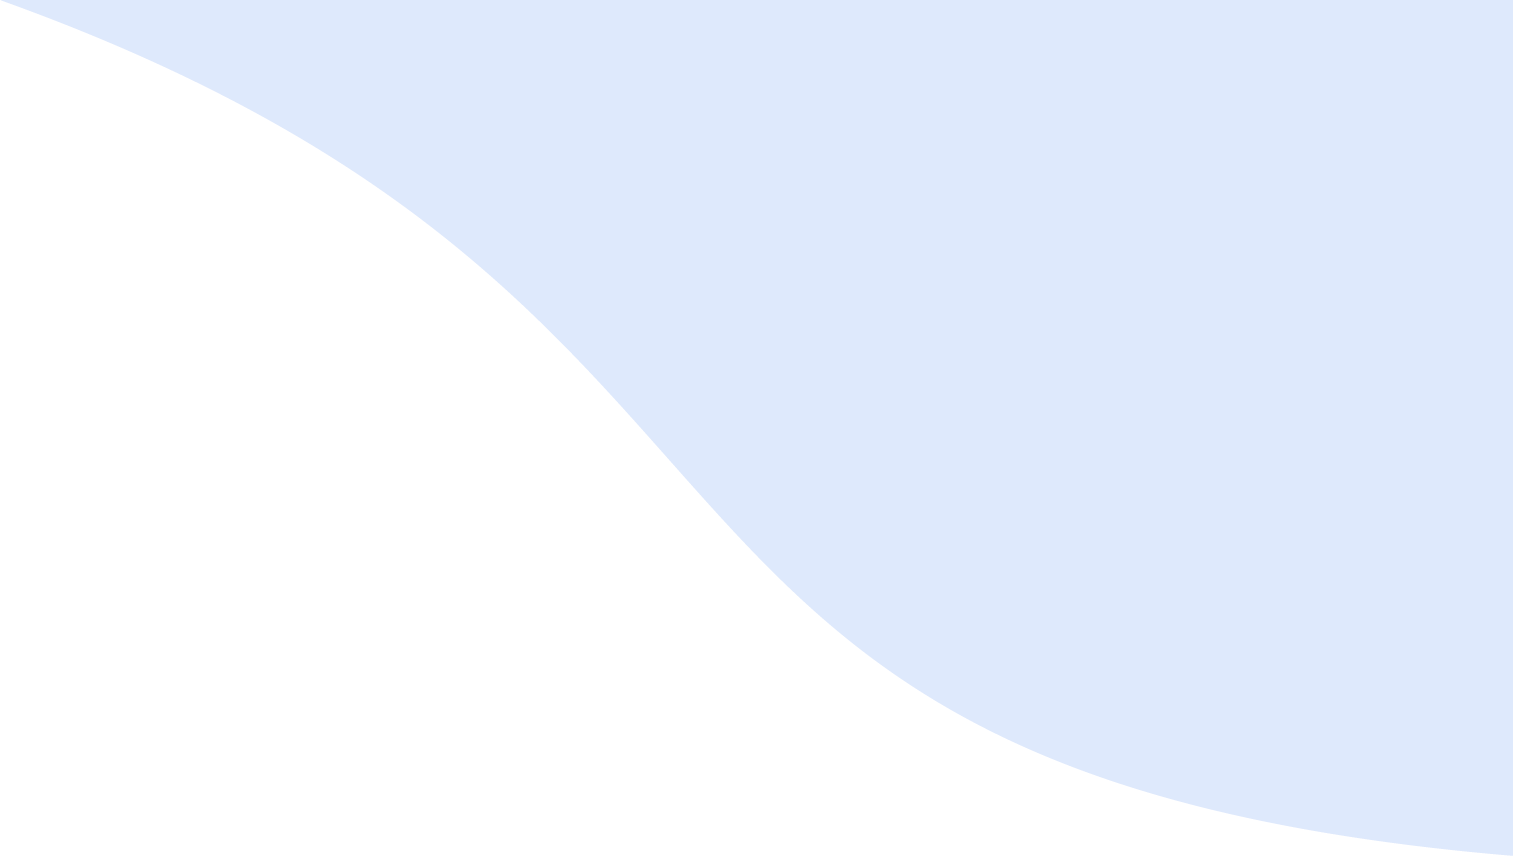
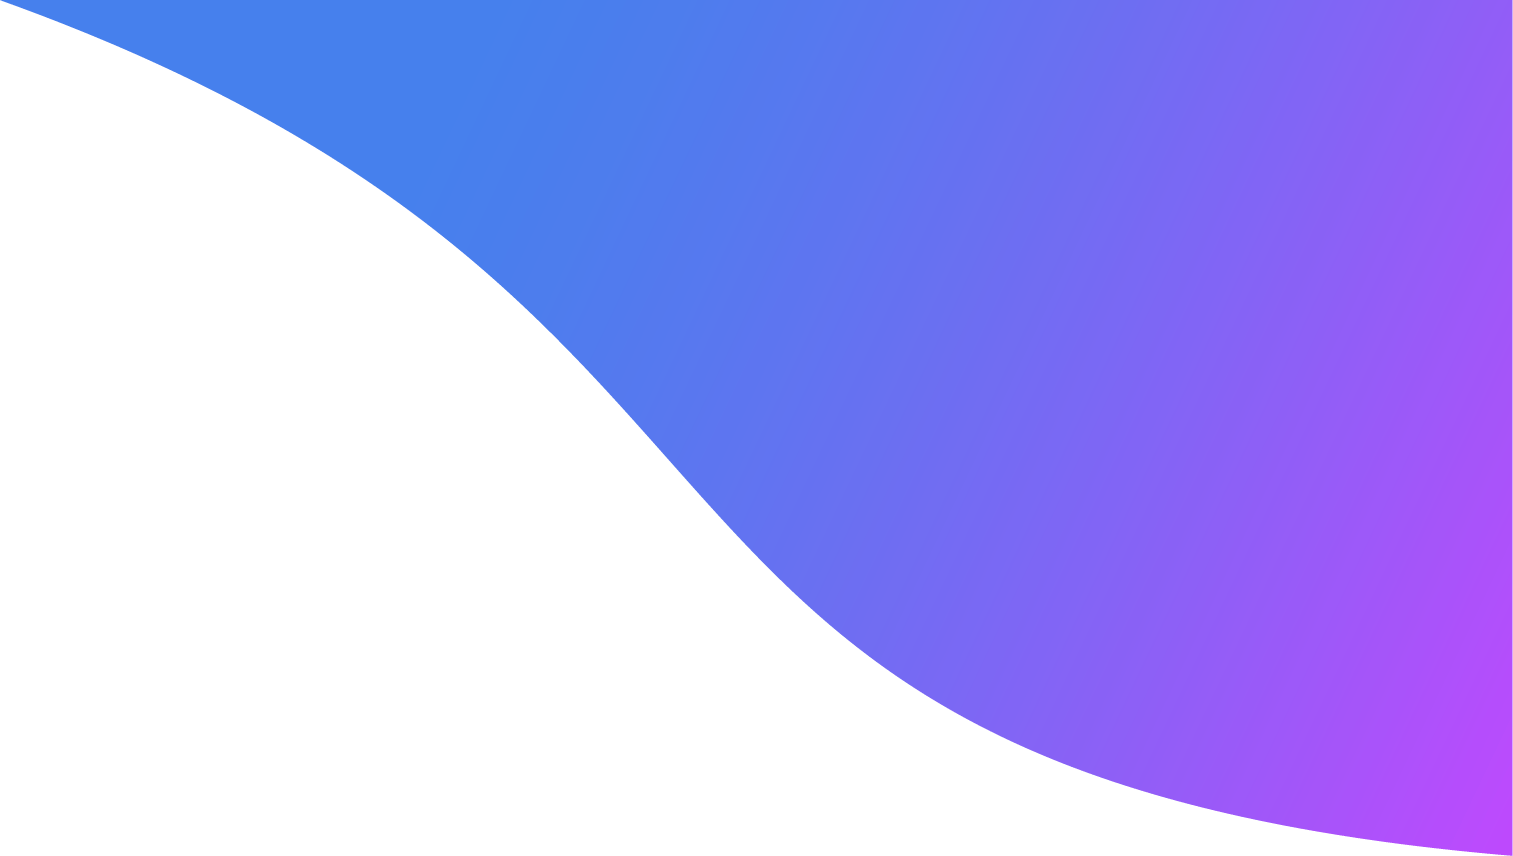
2rd commit

diff --git a/css/mobile.css b/css/mobile.css
@@ -1,6 +1,6 @@
 .back {
   width: 100%;
-  opacity: 0.5;
+  opacity: 0.09;
 }
 .back img{
   width: 75%;
@@ -45,7 +45,7 @@ header .nav_btn span {
   display: block;
   width: 28px;
   height: 3px;
-  background-color: #333;
+  background-color: #1860e8;
   border-radius: 5px;
   margin: 0 auto;
   margin-bottom: 6px;
@@ -115,6 +115,7 @@ header nav .close_btn span:last-child{
 header nav .gnb {
   margin-top: 80px;
   font-weight: 500;
+  
 }
 header nav .gnb li:hover{
   text-decoration: underline;
@@ -122,6 +123,7 @@ header nav .gnb li:hover{
 header nav .gnb li{
   margin-bottom: 30px;
   font-size: 1.5rem;/*24*/
+  color: #1860e8;
 } 
 header nav .gnb li:last-child {
   margin: 0;
@@ -149,17 +151,24 @@ header nav .gnb li:last-child {
   padding-bottom: 16px;
   width: 100%;
   font-size: 1.625rem;
+  color: #1860e8;
+  background: linear-gradient(to right, #1860e8, #c213ff); /* 그라데이션 색상 설정 */
+  -webkit-background-clip: text; /* 텍스트에만 배경을 적용 */
+  -webkit-text-fill-color: transparent; /* 텍스트 색상을 투명으로 설정하여 배경이 보이도록 함 */
   /* font-size: 26px; */
 }
 .banner .main_title .title_1 span{
   /* font-size: 24px; */
-  background-color: #f2f2f2;
+  background-color: #1860e8;
+  color: #fff;
   font-weight: 600;
   padding: 2px;
 }
 .banner .main_title .title_2{}
 .banner .main_title .title_2 p{
   font-size: 1rem;/*20*/
+  color: #1860e8;
+  font-weight: 500;
 }
 .banner .con .item:first-child .box {
   width: 10px;
@@ -179,6 +188,7 @@ header nav .gnb li:last-child {
 .title {
   font-size:2rem;
   margin-bottom: 16px;
+  color: #1860e8;
 }
 .row1 {
   padding: 16px;
@@ -190,7 +200,8 @@ header nav .gnb li:last-child {
 .row1 .con{}
 .row1 .con .item{
   padding: 12px;
-  background-color: #f2f2f2;
+  /* background-color: #f2f2f2; */
+  background-color: #f0f6ff;
   border-radius: 4px;
   margin-bottom: 20px;
   color: #333;
@@ -231,7 +242,8 @@ header nav .gnb li:last-child {
   width: calc(25% - 16px );
   aspect-ratio: 1/1;
   margin-bottom: 32px;
-  background-color: #f2f2f2;
+  /* background-color: #f2f2f2; */
+  background-color: #f0f6ff;;
   border-radius: 8px;
   display: flex;
   height: 100%;
@@ -428,7 +440,8 @@ header nav .gnb li:last-child {
 }
 
 footer {
-  background-color: #000;
+  background-color: #1860e8;
+  background: linear-gradient(to right, #1860e8, #c213ff); /* 그라데이션 색상 설정 */
   color: #fff;
 }
 footer .foot_inner {

diff --git a/css/pc.css b/css/pc.css
@@ -81,6 +81,7 @@
     justify-content: space-between;
     white-space: nowrap;
     background-color: #f2f2f2;
+    background-color: #f0f6ff;;
     border-radius: 8px;
     padding: 26px;
   }
